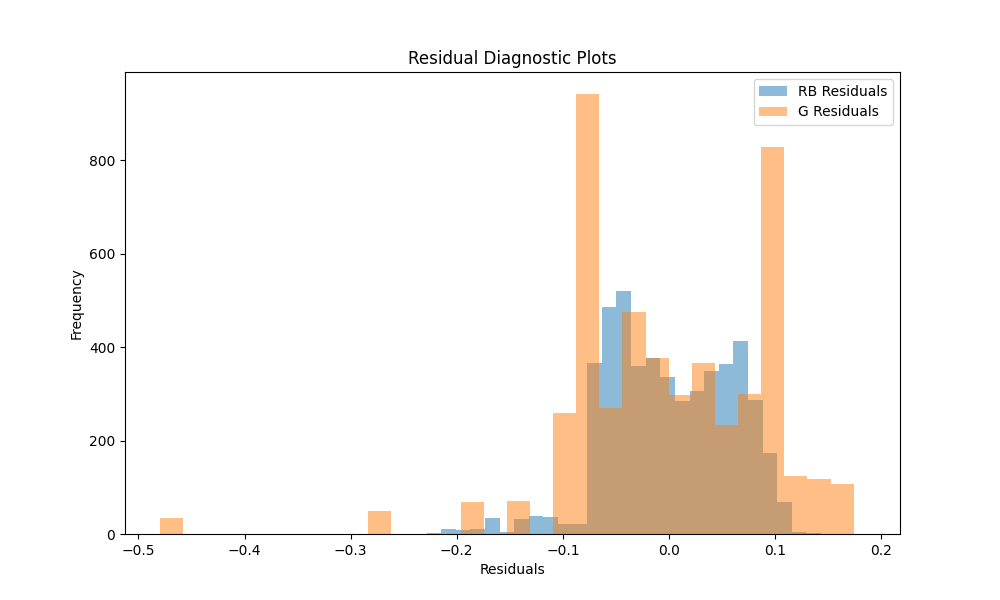
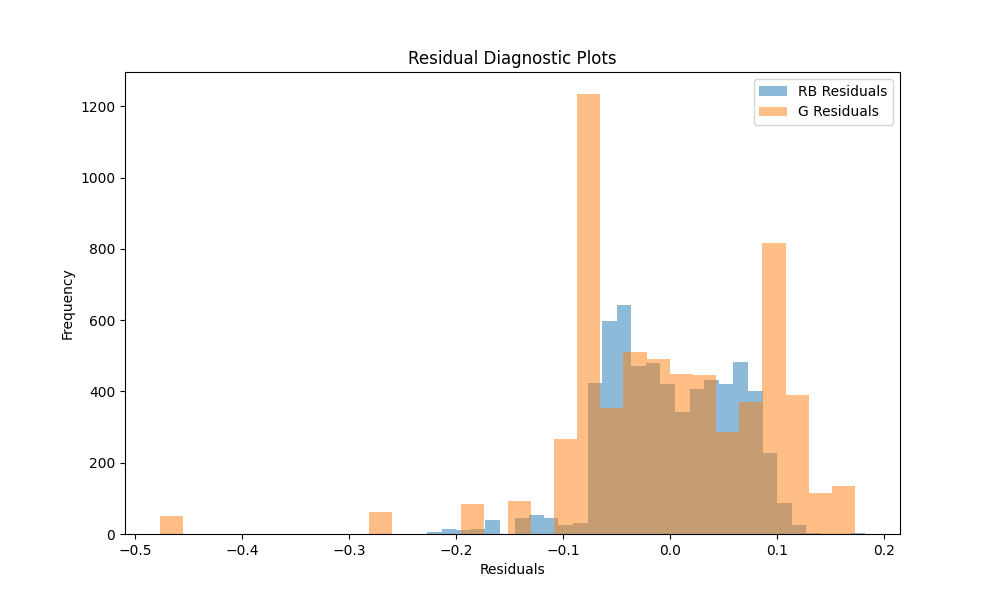
updated model in the knowledgebase folder

diff --git a/code/tools/visualisers/visualiser.py b/code/tools/visualisers/visualiser.py
@@ -2,13 +2,13 @@ import matplotlib.pyplot as plt
 import numpy as np
 import pandas as pd
 
-rb_train_losses = np.loadtxt("documentation/visualizations/source/ann_PyBrain/rb_train_losses.csv", delimiter=",")
-rb_test_losses = np.loadtxt("documentation/visualizations/source/ann_PyBrain/rb_test_losses.csv", delimiter=",")
-g_train_losses = np.loadtxt("documentation/visualizations/source/ann_PyBrain/g_train_losses.csv", delimiter=",")
-g_test_losses = np.loadtxt("documentation/visualizations/source/ann_PyBrain/g_test_losses.csv", delimiter=",")
+rb_train_losses = np.loadtxt("documentation/visualisations/source/ann_PyBrain/rb_train_losses.csv", delimiter=",")
+rb_test_losses = np.loadtxt("documentation/visualisations/source/ann_PyBrain/rb_test_losses.csv", delimiter=",")
+g_train_losses = np.loadtxt("documentation/visualisations/source/ann_PyBrain/g_train_losses.csv", delimiter=",")
+g_test_losses = np.loadtxt("documentation/visualisations/source/ann_PyBrain/g_test_losses.csv", delimiter=",")
 
-rb_residuals = np.loadtxt("documentation/visualizations/source/ols/rb_ols_residuals.csv", delimiter=",")
-g_residuals = np.loadtxt("documentation/visualizations/source/ols/g_ols_residuals.csv", delimiter=",")
+rb_residuals = np.loadtxt("documentation/visualisations/source/ols/rb_ols_residuals.csv", delimiter=",")
+g_residuals = np.loadtxt("documentation/visualisations/source/ols/g_ols_residuals.csv", delimiter=",")
 
 plt.figure(figsize=(10, 6))
 plt.plot(rb_train_losses, label="RB Train Loss")
@@ -19,7 +19,7 @@ plt.xlabel("Epochs")
 plt.ylabel("Loss")
 plt.legend()
 plt.title("Training and Testing Loss Curves")
-plt.savefig("documentation/visualizations/training_testing_curves.png")
+plt.savefig("documentation/visualisations/training_testing_curves.png")
 
 plt.figure(figsize=(10, 6))
 plt.hist(rb_residuals, bins=30, alpha=0.5, label="RB Residuals")
@@ -28,7 +28,7 @@ plt.xlabel("Residuals")
 plt.ylabel("Frequency")
 plt.legend()
 plt.title("Residual Diagnostic Plots")
-plt.savefig("documentation/visualizations/residual_diagnostic_plots.png")
+plt.savefig("documentation/visualisations/residual_diagnostic_plots.png")
 
 plt.figure(figsize=(10, 6))
 plt.scatter(range(len(rb_residuals)), rb_residuals, alpha=0.5, label="RB Residuals")
@@ -37,4 +37,4 @@ plt.xlabel("Index")
 plt.ylabel("Residuals")
 plt.legend()
 plt.title("Residual Scatter Plots")
-plt.savefig("documentation/visualizations/residual_scatter_plots.png")
+plt.savefig("documentation/visualisations/residual_scatter_plots.png")

diff --git a/code/ann_PyBrain/hybridModel.py b/code/ann_PyBrain/hybridModel.py
@@ -34,7 +34,7 @@ print('data split')
 
 
 hiddenLayers = 100
-rounds = 100
+rounds = 50
 
 ann = FeedForwardNetwork()
 
